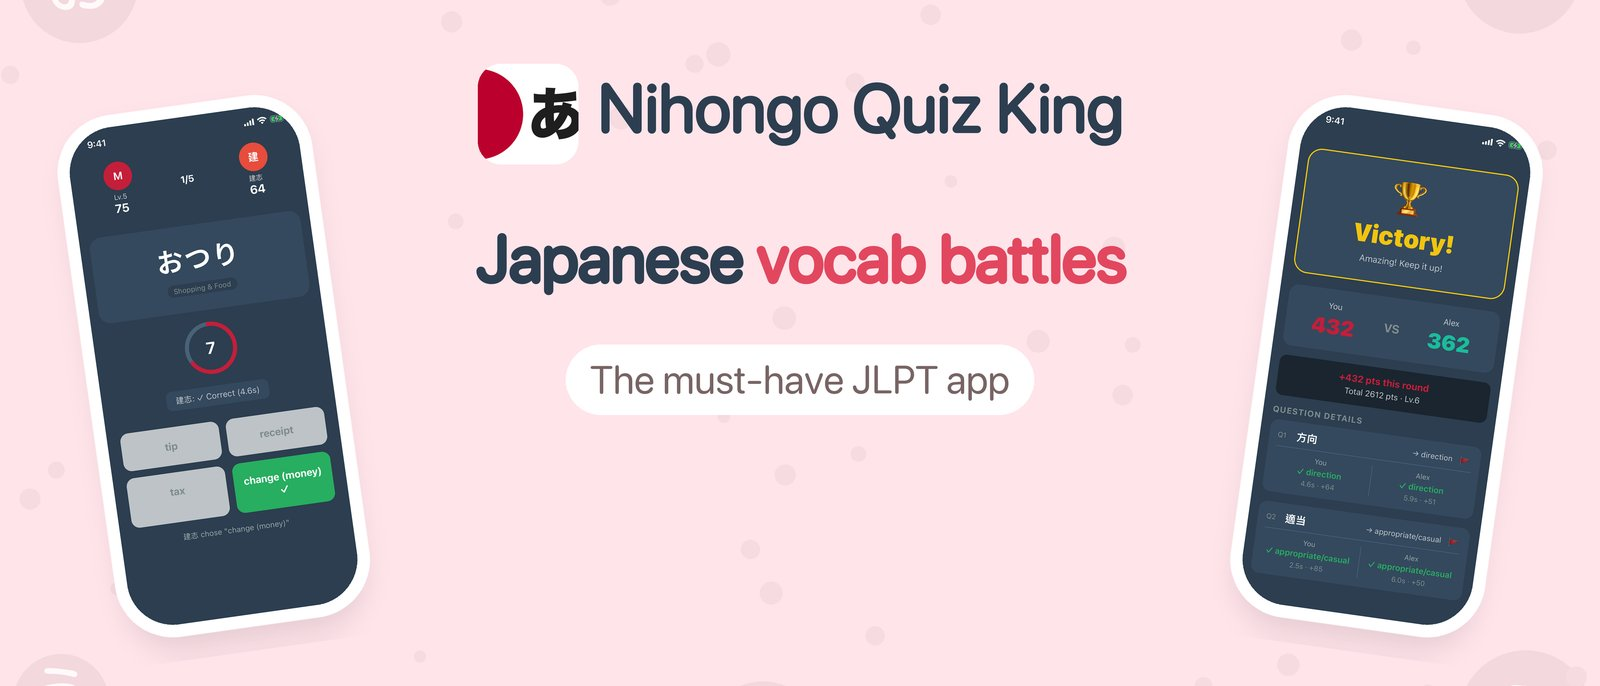
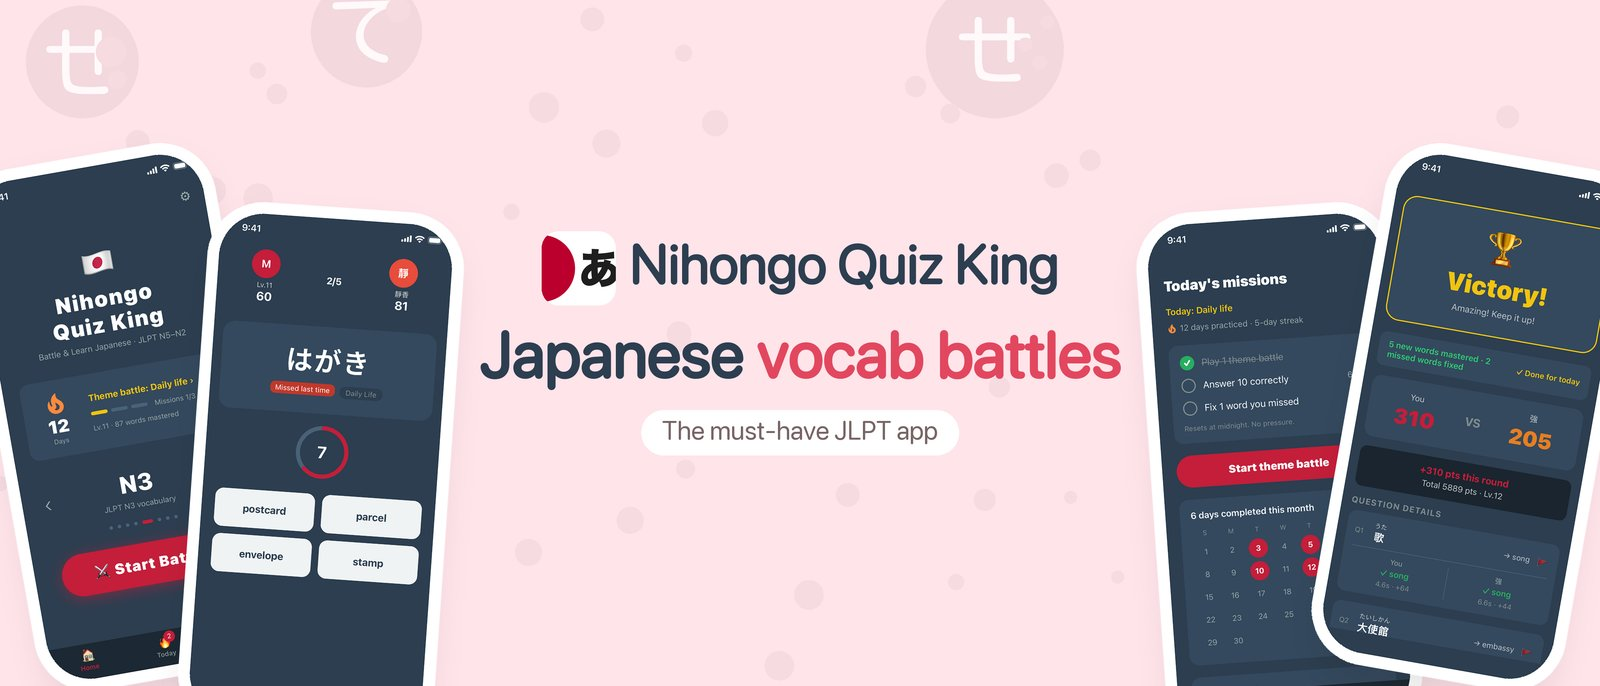
Update Nihongo Quiz King screenshots to v1.8.0
Header plus home, Today tab and result screens from the 1.8.0 App Store
assets, in English and Chinese. Drop the old battle screenshot.

Claude-Session: https://claude.ai/code/session_01YXNdLnzxdwqaFJAFyWbcP3

diff --git a/index.html b/index.html
@@ -1008,7 +1008,7 @@ footer {
       <a class="article-link secondary" href="https://github.com/waitinghir/jp-knowledge-king" target="_blank">⟨/⟩ GitHub</a>
     </div>
     <div class="article-body">
-      <div class="lang-en"><img class="article-img" src="images/jpquiz-header-en.jpg" alt="Nihongo Quiz King App Store header" style="margin-top:2rem;"><div class="screenshot-row"><img class="article-img" src="images/jpquiz-home-en.jpg" alt="Home screen with level picker" loading="lazy"><img class="article-img" src="images/jpquiz-battle1-en.jpg" alt="Battle screen" loading="lazy"><img class="article-img" src="images/jpquiz-result-en.jpg" alt="Result screen" loading="lazy"></div></div><div class="lang-zh"><img class="article-img" src="images/jpquiz-header-zh.jpg" alt="日文知識王 App Store 橫幅" style="margin-top:2rem;"><div class="screenshot-row"><img class="article-img" src="images/jpquiz-home-zh.jpg" alt="首頁與難度選擇" loading="lazy"><img class="article-img" src="images/jpquiz-battle1-zh.jpg" alt="對戰畫面" loading="lazy"><img class="article-img" src="images/jpquiz-result-zh.jpg" alt="結算畫面" loading="lazy"></div></div>
+      <div class="lang-en"><img class="article-img" src="images/jpquiz-header-en.jpg" alt="Nihongo Quiz King App Store header" style="margin-top:2rem;"><div class="screenshot-row"><img class="article-img" src="images/jpquiz-home-en.jpg" alt="Home screen with swipeable level picker" loading="lazy"><img class="article-img" src="images/jpquiz-today-en.jpg" alt="Today tab with daily missions" loading="lazy"><img class="article-img" src="images/jpquiz-result-en.jpg" alt="Result screen with readings" loading="lazy"></div></div><div class="lang-zh"><img class="article-img" src="images/jpquiz-header-zh.jpg" alt="日文知識王 App Store 橫幅" style="margin-top:2rem;"><div class="screenshot-row"><img class="article-img" src="images/jpquiz-home-zh.jpg" alt="首頁與難度選擇" loading="lazy"><img class="article-img" src="images/jpquiz-today-zh.jpg" alt="今日分頁與每日任務" loading="lazy"><img class="article-img" src="images/jpquiz-result-zh.jpg" alt="結算畫面與讀音" loading="lazy"></div></div>
       <p><span class="lang-en">Nihongo Quiz King is a 1v1 quiz game for learning Japanese vocabulary, built with Expo/React Native and shipped to the App Store. This is an ongoing project — each article below documents a phase of its evolution.</span><span class="lang-zh">日文知識王是一款 1v1 日文單字對戰遊戲，使用 Expo/React Native 開發並上架 App Store。這是一個持續進行的專案——以下每篇文章記錄一個演進階段。</span></p>
       <div class="version-list">
         <a class="version-card" onclick="showArticle('jpquiz-v1')">
